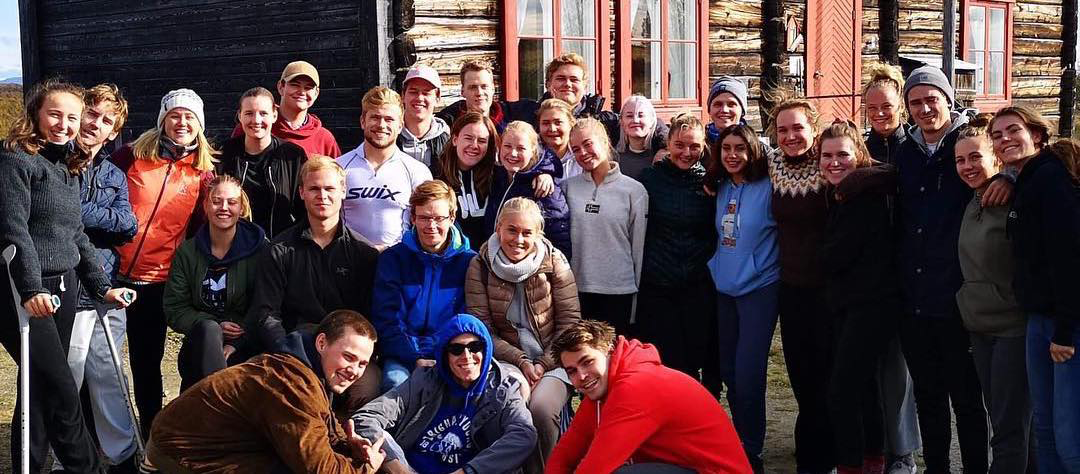
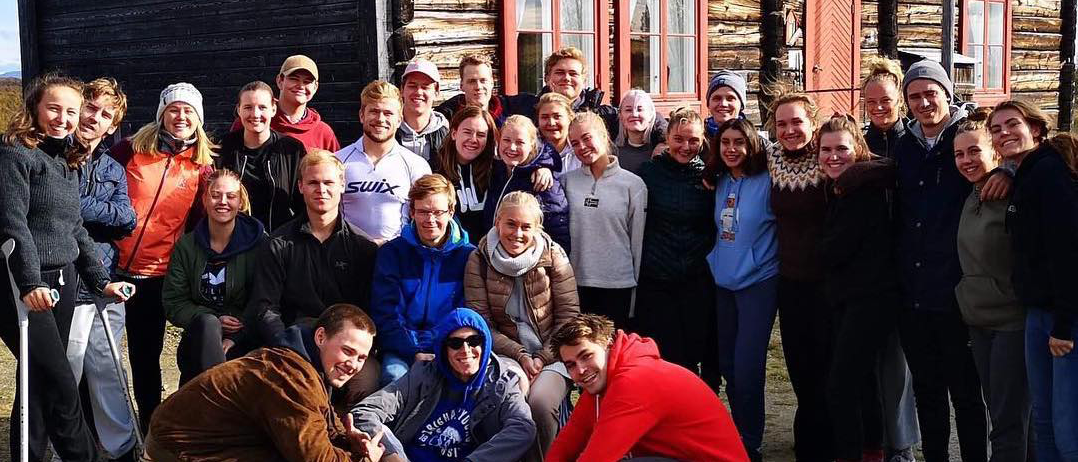
fjernet hvit strek mellom bildeshow og footer

diff --git a/css/style.css b/css/style.css
@@ -1126,6 +1126,7 @@ span{
   -webkit-animation-duration: 2s;
   animation-name: fade;
   animation-duration: 2s;
+  margin-bottom: -4px;
 }
 
 @-webkit-keyframes fade {
@@ -1137,6 +1138,8 @@ span{
   from {opacity: .6}
   to {opacity: 1}
 }
+
+
 
 /*************************/
 /* CSS til arrangementer */

diff --git a/index.html b/index.html
@@ -27,9 +27,6 @@
             <a class="next" onclick="changePhoto(1)">&#8250;</a>
         </div>
 
-        <div id="content">
-        </div>
-
         <footer>
             <div id="js-footer"></div>
         </footer>
